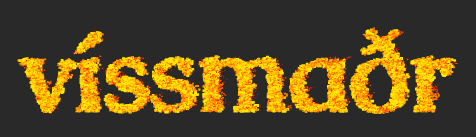
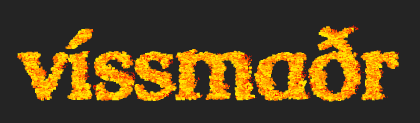
minor

Changed region(s): [[0.031, 0.1951, 0.9595, 0.8537]]

diff --git a/apps/website/src/views/content/creative/creative-tags.ts b/apps/website/src/views/content/creative/creative-tags.ts
@@ -25,73 +25,73 @@ export const creativeTags: Record<TagNames, TagData> = {
   [TagNames["3D"]]: {
     label: "3D",
     color: "#118888",
-    fontColor: "#FFFFFF",
+    fontColor: "#EEEEEE",
   },
 
   [TagNames.Input]: {
     label: "Input",
     color: "#11A011",
-    fontColor: "#FFFFFF",
+    fontColor: "#EEEEEE",
   },
 
   [TagNames.GPU]: {
     label: "GPU",
     color: "#DD1111",
-    fontColor: "#FFFFFF",
+    fontColor: "#EEEEEE",
   },
 
   [TagNames.Noise]: {
     label: "Noise",
     color: "#A08070",
-    fontColor: "#FFFFFF",
+    fontColor: "#EEEEEE",
   },
 
   [TagNames.Education]: {
     label: "Education",
     color: "#127FDE",
-    fontColor: "#FFFFFF",
+    fontColor: "#EEEEEE",
   },
 
   [TagNames.Particles]: {
     label: "Particles",
     color: "#FF8010",
-    fontColor: "#FFFFFF",
+    fontColor: "#EEEEEE",
   },
 
   [TagNames.Image]: {
     label: "Image",
     color: "#D56065",
-    fontColor: "#FFFFFF",
+    fontColor: "#EEEEEE",
   },
 
   [TagNames.Pathfinding]: {
     label: "Pathfinding",
     color: "#2040B1",
-    fontColor: "#FFFFFF",
+    fontColor: "#EEEEEE",
   },
 
   [TagNames.Collision]: {
     label: "Collision",
     color: "#9163F2",
-    fontColor: "#FFFFFF",
+    fontColor: "#EEEEEE",
   },
 
   [TagNames.Random]: {
     label: "Random",
     color: "#6E915F",
-    fontColor: "#FFFFFF",
+    fontColor: "#EEEEEE",
   },
 
   [TagNames.ASCII]: {
     label: "ASCII",
     color: "#666666",
-    fontColor: "#FFFFFF",
+    fontColor: "#EEEEEE",
   },
 
   [TagNames.Automata]: {
     label: "Automata",
     color: "#AA11AA",
-    fontColor: "#FFFFFF",
+    fontColor: "#EEEEEE",
   },
 
   [TagNames.Bright]: {
@@ -103,6 +103,6 @@ export const creativeTags: Record<TagNames, TagData> = {
   [TagNames.Physics]: {
     label: "Physics",
     color: "#49C280",
-    fontColor: "#FFFFFF",
+    fontColor: "#EEEEEE",
   },
 };

diff --git a/apps/website/src/views/content/creative/CreativeCard.module.css b/apps/website/src/views/content/creative/CreativeCard.module.css
@@ -1,17 +1,12 @@
 .card {
-  border: 1px solid #000;
-  border-radius: 4px;
+  background-color: #333;
 
-  display: flex;
-  flex-direction: column;
-  align-items: center;
-  justify-content: center;
+  border-radius: 4px;
 
   width: 300px;
   min-width: 300px;
   max-width: 300px;
 
-  text-align: center;
   opacity: 80%;
   transition: 200ms;
 }
@@ -21,23 +16,12 @@
   transition: 200ms;
 }
 
-.link {
-  width: 100%;
-}
-
 .image_container {
-  position: relative;
-  width: 100%;
-  height: 300px;
+  padding: 8px;
 }
 
 .image {
-  padding: 10px;
   width: 100%;
   height: 100%;
-}
-
-.title {
-  padding: 10px;
-  color: #FFF;
+  border-radius: 8px;
 }

diff --git a/apps/website/src/views/content/creative/CreativeCard.tsx b/apps/website/src/views/content/creative/CreativeCard.tsx
@@ -1,6 +1,5 @@
 import { A } from "@solidjs/router";
 
-import { TagsContainer } from "./TagsContainer";
 import { TagNames } from "./creative-tags";
 
 import css from "./CreativeCard.module.css";
@@ -15,14 +14,10 @@ interface Props {
 export const CreativeCard = (props: Props) => {
   return (
     <div class={css.card}>
-      <A class={css.link} href={props.route}>
+      <A href={props.route}>
         <div class={css.image_container}>
           <img class={css.image} src={props.thumbnail} />
         </div>
-
-        <h2 class={css.title}>{props.title}</h2>
-
-        <TagsContainer tags={props.tags} />
       </A>
     </div>
   );

diff --git a/packages/creative/src/GPU/wealth/main.ts b/packages/creative/src/GPU/wealth/main.ts
@@ -26,7 +26,7 @@ function setupGL(canvas: HTMLCanvasElement) {
 
   WebGL.Canvas.resizeToDisplaySize(canvas);
   gl.viewport(0, 0, gl.canvas.width, gl.canvas.height);
-  gl.clearColor(0.08, 0.08, 0.08, 1.0);
+  gl.clearColor(0.11, 0.11, 0.11, 1.0);
 
   return gl;
 }
@@ -420,6 +420,8 @@ export function main(canvas: HTMLCanvasElement, settings: Partial<Config> = {}) 
   const renderLoop = () => {
     gl.useProgram(programs.render);
     gl.bindVertexArray(swapOne.renderVAO);
+
+    gl.clear(gl.COLOR_BUFFER_BIT);
 
     gl.drawArrays(gl.POINTS, 0, particleCount);
   };

diff --git a/apps/website/src/views/content/creative/CreativePage.module.css b/apps/website/src/views/content/creative/CreativePage.module.css
@@ -5,11 +5,12 @@
   justify-content: center;
   text-align: center;
 
-  padding: 10px 0;
+  padding: 8px 0;
 }
 
 .title {
-  margin: 10px auto;
+  margin: 8px auto;
+  font-size: 26px;
 }
 
 .tags {
@@ -17,14 +18,14 @@
 }
 
 .canvas {
-  margin: 10px auto;
+  margin: 8px auto;
+  border: 2px solid #444444;
 
-  border-radius: 10px;
-  /* border-radius: 50%; */
+  border-radius: 8px;
 }
 
 .description {
-  margin: 10px auto;
+  margin: 8px auto;
   max-width: 600px;
   text-align: center;
 }

diff --git a/apps/website/src/views/content/creative/CreativePage.tsx b/apps/website/src/views/content/creative/CreativePage.tsx
@@ -16,8 +16,6 @@ export const CreativePage = (props: Props) => {
     props.creative.main(canvasRef, props.creative.config);
   });
 
-  // TODO: onCleanup
-
   return (
     <main class={css.main}>
       <article>

diff --git a/apps/website/src/views/hero/Hero.module.css b/apps/website/src/views/hero/Hero.module.css
@@ -7,9 +7,9 @@
   margin: auto;
 
   width: 100%;
-  max-width: 480px;
+  max-width: 420px;
   min-width: 320px;
-  aspect-ratio: 480 / 141;
+  aspect-ratio: 420 / 123;
 }
 
 .canvas,

diff --git a/apps/website/src/views/content/creative/Creative.module.css b/apps/website/src/views/content/creative/Creative.module.css
@@ -8,7 +8,7 @@
   flex-wrap: wrap;
   justify-content: center;
   align-items: center;
-  gap: 20px;
+  gap: 16px;
 
-  padding: 20px;
+  padding: 16px;
 }

diff --git a/apps/website/src/views/content/creative/TagsContainer.module.css b/apps/website/src/views/content/creative/TagsContainer.module.css
@@ -3,9 +3,7 @@
   justify-content: center;
   align-items: center;
 
-  min-height: 60px;
-
-  padding: 10px 0;
+  padding: 8px 0;
 }
 
 .tags_container {

diff --git a/packages/sandtext/src/config.ts b/packages/sandtext/src/config.ts
@@ -1,6 +1,6 @@
 export const defaultConfig = {
-  imageWidth: 480,
-  imageHeight: 141,
+  imageWidth: 420,
+  imageHeight: 123,
 
   FPS: 30,
 

diff --git a/apps/website/src/styles/style.css b/apps/website/src/styles/style.css
@@ -1,5 +1,5 @@
 body {
-  background-color: #292929;
+  background-color: #242424;
   /* color: #dfdfdf; */
   color: #999999;
 

diff --git a/apps/website/src/views/footer/Footer.module.css b/apps/website/src/views/footer/Footer.module.css
@@ -16,7 +16,7 @@
 }
 
 .link:hover {
-  color: #ffaa00;
+  color: #ffb200;
 }
 
 .code {
